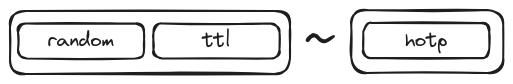
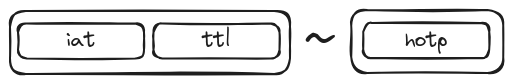
replace random by microsecond iat in token information

diff --git a/SPECIFICATION.md b/SPECIFICATION.md
@@ -50,13 +50,13 @@ wpfDjsKrwrkSw4wDAA~3a479fde
 
 ### 3.2 Status information
 
-The status information, as the first part of status tokens, is encoded to store a low-weighted payload that contains the token time to live and the possible statuses [those may not be mandatory if standardized by the issuer]. It helps to resolve the status contained in the derived token. A random part is also available to have the unicity of status tokens [may be added to the secret of the HOTP algorithm to also have the unicity of the derivation]. The contained information is stored in a binary format and URL-safe base 64 encoded.
+The status information, as the first part of status tokens, is encoded to store a low-weighted payload that contains the iat and the token time to live. It helps to resolve the status contained in the derived token. Not being part of token verification algorithm, this part contains information about when the token was issued. The contained information is stored in a binary format and URL-safe base 64 encoded.
 
 ```
-<random bytes>{4}<binary encode Time To Live>{4}
+<iat>{4}<binary encode Time To Live>{4}
 ```
 
-The random part may be a fixed-sized list of bytes. The time to live may be padded binary encoded integer to save storage. Those parts may be concatenated to form the status information.
+The iat may be a 7 bytes long and binary encoded. The time to live may also be padded binary encoded integer to save storage. Those parts may be concatenated to form the status information.
 
 ### 3.1 Derived Status
 ![Status derivation](https://raw.githubusercontent.com/malach-it/vc-decentralized-status/main/images/non-opaque-salt.png)
@@ -103,11 +103,11 @@ shift(status: string): int {
   BINARY_DECODE_UNSIGNED(BINARY_ENCODE(status))
 }
 generate_status_token(secret: string, ttl: int, status: string): int {
-  random = RANDOM_BYTES(4)
-  time_to_live = BINARY_ENCODE(ttl)
+  iat = BINARY_ENCODE(NOW(:microsecond)) # 7 bytes long
+  time_to_live = PAD_LEFT(BINARY_ENCODE(ttl), 4) # 4 bytes long
 
-  token_info = BASE64_ENCODE(random + time_to_live)
-  derived_status = HTOP(secret, DIV(NOW(), ttl) + shift(status))
+  token_info = BASE64_ENCODE(iat + time_to_live)
+  derived_status = HTOP(secret, DIV(NOW(:second), ttl) + shift(status))
 
   return "<token_info>~<derived_status>"
 }
@@ -121,21 +121,24 @@ shift(status: string): int {
   BINARY_DECODE_UNSIGNED(BINARY_ENCODE(status))
 }
 decode_token_info(token_info: string): hashtable {
-	result = REDUCE(
-		BYTES(status_token),
-		{ ttl => [], memory => [] },
-		lambda (byte, index), acc:
-			CASE index
-			WHEN index < 4
-				acc
-			WHEN index < 7
-				PUSH(acc[memory], byte)
-				return acc
-			WHEN index == 7
-				PUSH(acc[memory], byte)
-				acc[ttl] = BINARY_DECODE(acc[memory])
-				RESET(acc[memory])
-				return acc
+  result = REDUCE(
+      BYTES(status_token),
+      { iat => 0, ttl => 0, memory => [] },
+      lambda (byte, index), acc:
+      CASE index
+      WHEN index == 7
+        PUSH(acc[memory], byte)
+        acc[iat] = BINARY_DECODE(acc[memory])
+        RESET(acc[memory])
+        return acc
+      WHEN index == 10
+        PUSH(acc[memory], byte)
+        acc[ttl] = BINARY_DECODE(acc[memory])
+        RESET(acc[memory])
+        return acc
+      ELSE
+        PUSH(acc[memory], byte)
+        return acc
 	)
 	DELETE result[memory]
 	return result
